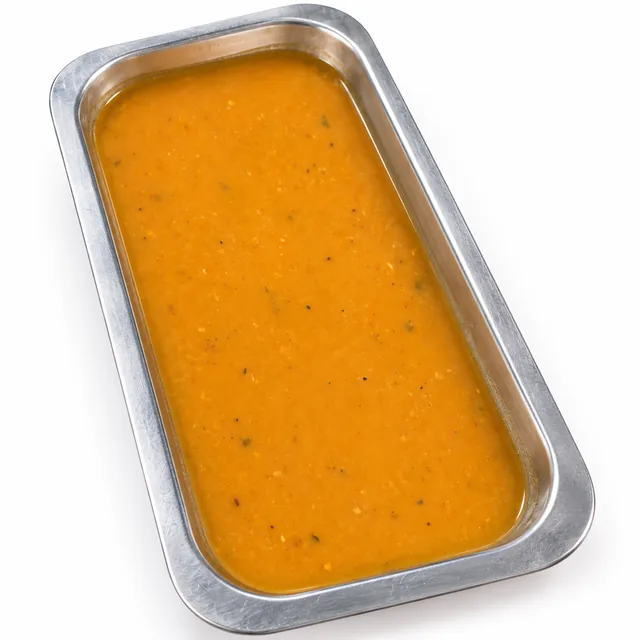
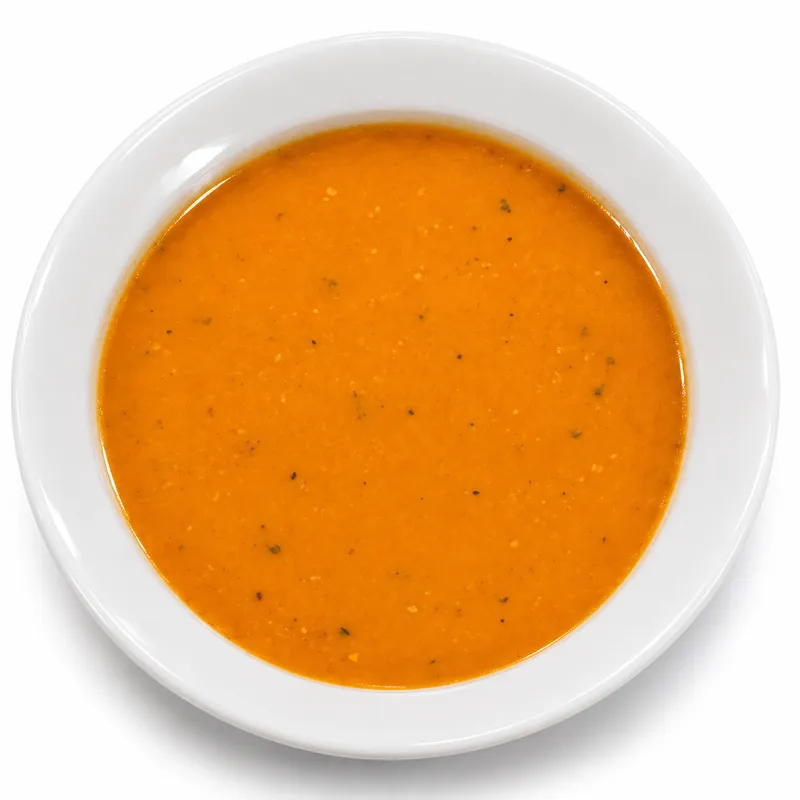
Üniversite Evi mercimek çorbası tabak görseli
Claude-Session: https://claude.ai/code/session_018TLhX9t37yRVH7CmumiBZP

diff --git a/sw.js b/sw.js
@@ -4,7 +4,7 @@
    - Sürüm numaralı (?v=) JS ve CSS: önbellekten anında, arkada yenisi iner. Dosyayı değiştirince ?v= numarasını artır.
    - Sürüm numarasız JS: önce internetten, olmazsa önbellekten.
    - Görseller, PDF'ler ve yazı tipleri: önce önbellekten. */
-const SURUM = "kc-v214";
+const SURUM = "kc-v215";
 const TEMEL = ["./", "index.html", "veri.js", "cerez.js", "tema.js", "favicon.svg", "manifest.webmanifest",
                "ikonlar/ikon-192.png", "ikonlar/ikon-512.png", "kc.css", "ana.css", "masaustu.css", "uygulama.css", "yazitipi/figtree-latin.woff2", "yazitipi/figtree-latin-ext.woff2", "yazitipi/bricolage-latin.woff2", "yazitipi/bricolage-latin-ext.woff2", "kodatolye.js", "vize.js", "dersler.html", "gizlilik.html", "hakkimizda.html", "404.html"];
 const SAYFA_BEKLE = 3000;
